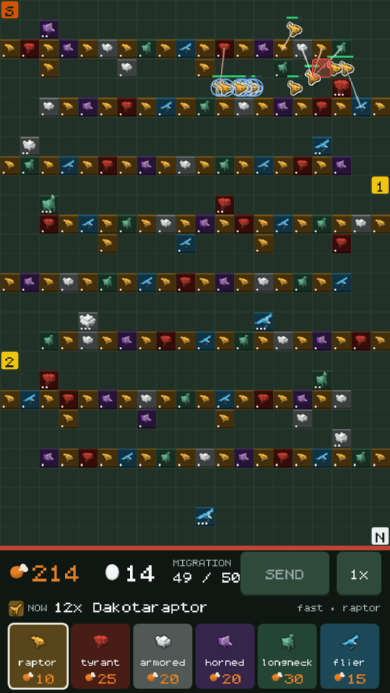
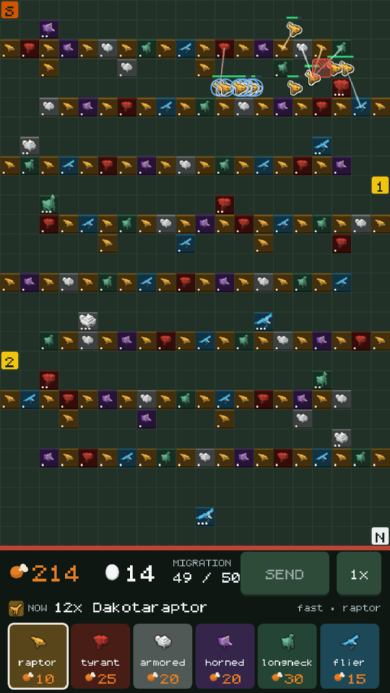
art: the two block models that did not read, redrawn
The board picked "right direction, keep working the models" and named no
specifics, so these are the two I had already called weakest when I put the
card up.

The raptor's tell is "a low horizontal dash, stiff tail out behind". The
first pass was a tall box with a stub behind it, which reads as a lump at any
size. Now the mass runs the full width of the model, the body is shorter than
it is long, and the tail is carried out past the silhouette in a second,
thinner box.

The armoured tell is "a wide low hump with a detached-looking ball on the
tail". Two things stopped it: the hump was one slab, which reads as a lid on
a box rather than a dome, and the club was smaller than the tail carrying it,
so it merged into the body instead of looking detached. The hump is two
stepped courses now and the club is nearly head-sized on a tail thin enough
to vanish at 20px, which is what makes it look detached.

diff --git a/tools/art/blocks.ts b/tools/art/blocks.ts
@@ -64,12 +64,16 @@ function eye(x: number, y: number, zFace: number, s = 0.055): Box[] {
 /** A low horizontal dash: stiff tail out behind, head carried forward. */
 function raptor(stage: 1 | 2 | 3): Box[] {
   const m: Box[] = [
-    ...legs2(0.42, 0.22),
-    box(0.32, 0.2, 0.4, 0.3, 0.2, 0.2), // body
-    box(0.1, 0.25, 0.43, 0.24, 0.08, 0.13), // tail, horizontal and stiff
-    box(0.58, 0.26, 0.41, 0.17, 0.15, 0.18), // head carried forward
-    box(0.73, 0.27, 0.43, 0.11, 0.08, 0.13, "dark"), // snout
-    ...eye(0.63, 0.34, 0.59),
+    // Long and low. The first pass was a tall box with a stub behind it and
+    // read as a lump: the dash is the whole tell, so the mass runs the full
+    // width of the model and the body is shorter than it is long.
+    ...legs2(0.4, 0.2),
+    box(0.3, 0.2, 0.41, 0.28, 0.15, 0.18), // body, low
+    box(0.12, 0.23, 0.43, 0.2, 0.07, 0.12), // tail, stiff and horizontal
+    box(0.02, 0.24, 0.44, 0.12, 0.05, 0.09, "dark"), // and carried out past it
+    box(0.56, 0.24, 0.41, 0.16, 0.13, 0.17), // head, forward and level
+    box(0.71, 0.25, 0.43, 0.15, 0.07, 0.12, "dark"), // snout, long
+    ...eye(0.61, 0.31, 0.58),
   ];
   if (stage === 3) m.push(box(0.6, 0.4, 0.44, 0.12, 0.05, 0.05, "accent")); // crest
   if (stage >= 2) m.push(box(0.56, 0.18, 0.42, 0.06, 0.04, 0.05, "accent")); // sickle claw
@@ -95,13 +99,19 @@ function tyrant(stage: 1 | 2 | 3): Box[] {
 /** A wide low hump with a detached-looking ball on the tail. */
 function armored(stage: 1 | 2 | 3): Box[] {
   const m: Box[] = [
-    ...legs4(0.28, 0.66, 0.3, 0.7, 0.11),
-    box(0.26, 0.1, 0.28, 0.4, 0.16, 0.44), // wide low body
-    box(0.32, 0.26, 0.34, 0.28, 0.11, 0.32, "light"), // the hump
-    box(0.62, 0.1, 0.42, 0.14, 0.12, 0.17, "dark"), // small low head
-    box(0.14, 0.14, 0.44, 0.14, 0.07, 0.1), // tail
-    box(0.02, 0.1, 0.42, 0.13, 0.14, 0.14, "accent"), // the club, reading detached
-    ...eye(0.68, 0.16, 0.59, 0.045),
+    ...legs4(0.3, 0.68, 0.3, 0.7, 0.1),
+    box(0.28, 0.09, 0.28, 0.4, 0.15, 0.44), // wide low body
+    // A dome, not a slab: two courses stepped in on all four sides. One
+    // course read as a lid on a box and the hump is half the tell.
+    box(0.33, 0.24, 0.33, 0.3, 0.1, 0.34, "light"),
+    box(0.38, 0.34, 0.38, 0.2, 0.08, 0.24, "light"),
+    box(0.64, 0.09, 0.42, 0.14, 0.11, 0.17, "dark"), // small low head
+    // The club has to look detached, so the tail that carries it is thin
+    // enough to disappear at 20px and the ball is nearly head-sized. At the
+    // first pass the club was smaller than the tail and merged into the body.
+    box(0.17, 0.13, 0.45, 0.13, 0.05, 0.07),
+    box(0.0, 0.08, 0.41, 0.17, 0.17, 0.17, "accent"),
+    ...eye(0.7, 0.15, 0.59, 0.045),
   ];
   if (stage >= 2) {
     m.push(box(0.3, 0.36, 0.36, 0.08, 0.06, 0.07, "accent"), box(0.52, 0.36, 0.36, 0.08, 0.06, 0.07, "accent"));
